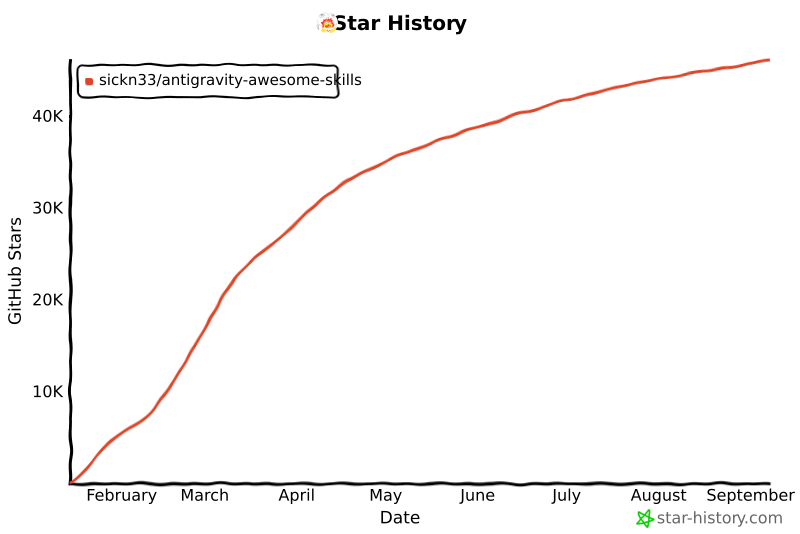
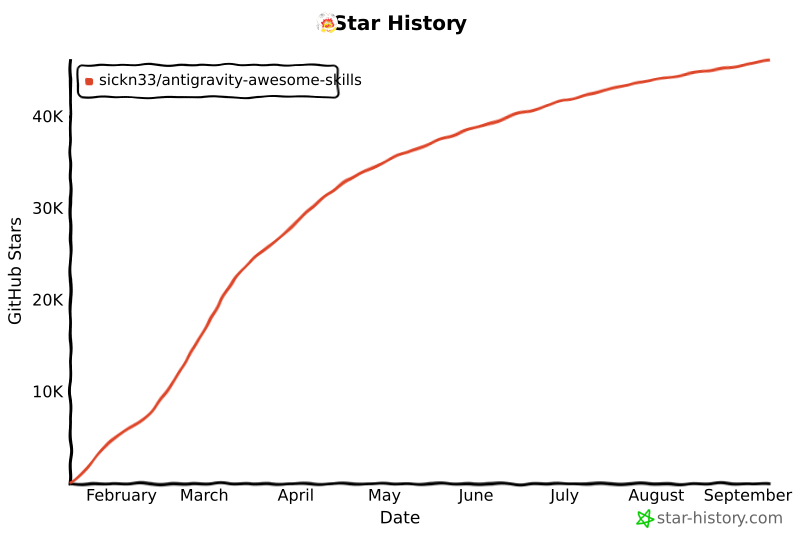
chore: update star history chart

diff --git a/README.md b/README.md
@@ -486,14 +486,14 @@ We officially thank the following contributors for their help in making this rep
 ## Star History
 
 <a href="https://www.star-history.com/#sickn33/antigravity-awesome-skills&type=date&legend=top-left">
- <img alt="Star History Chart" src="https://api.star-history.com/svg?repos=sickn33/antigravity-awesome-skills&type=date&legend=top-left&cache_bust=202609080608" />
+ <img alt="Star History Chart" src="https://api.star-history.com/svg?repos=sickn33/antigravity-awesome-skills&type=date&legend=top-left&cache_bust=202609090608" />
 </a>
 
 <a href="https://www.star-history.com/sickn33/antigravity-awesome-skills">
  <picture>
-   <source media="(prefers-color-scheme: dark)" srcset="https://api.star-history.com/chart?repos=sickn33/antigravity-awesome-skills&style=landscape1&theme=dark&cache_bust=202609080608" />
-   <source media="(prefers-color-scheme: light)" srcset="https://api.star-history.com/chart?repos=sickn33/antigravity-awesome-skills&style=landscape1&cache_bust=202609080608" />
-   <img alt="Star History Chart" src="https://api.star-history.com/chart?repos=sickn33/antigravity-awesome-skills&style=landscape1&cache_bust=202609080608" />
+   <source media="(prefers-color-scheme: dark)" srcset="https://api.star-history.com/chart?repos=sickn33/antigravity-awesome-skills&style=landscape1&theme=dark&cache_bust=202609090608" />
+   <source media="(prefers-color-scheme: light)" srcset="https://api.star-history.com/chart?repos=sickn33/antigravity-awesome-skills&style=landscape1&cache_bust=202609090608" />
+   <img alt="Star History Chart" src="https://api.star-history.com/chart?repos=sickn33/antigravity-awesome-skills&style=landscape1&cache_bust=202609090608" />
  </picture>
 </a>
 
